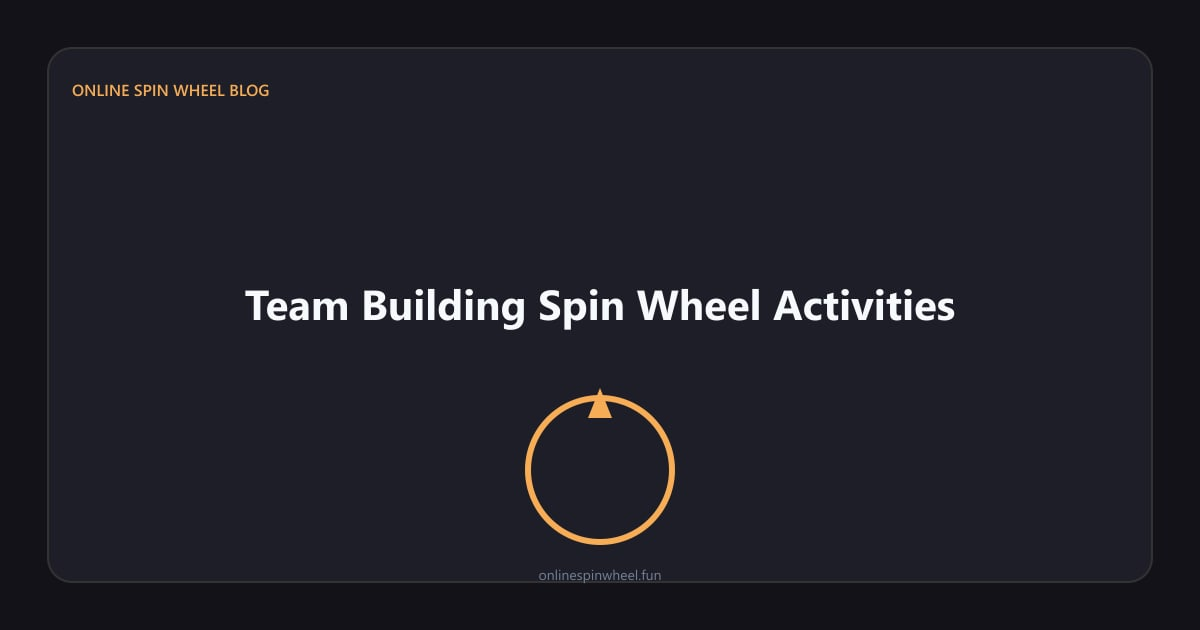
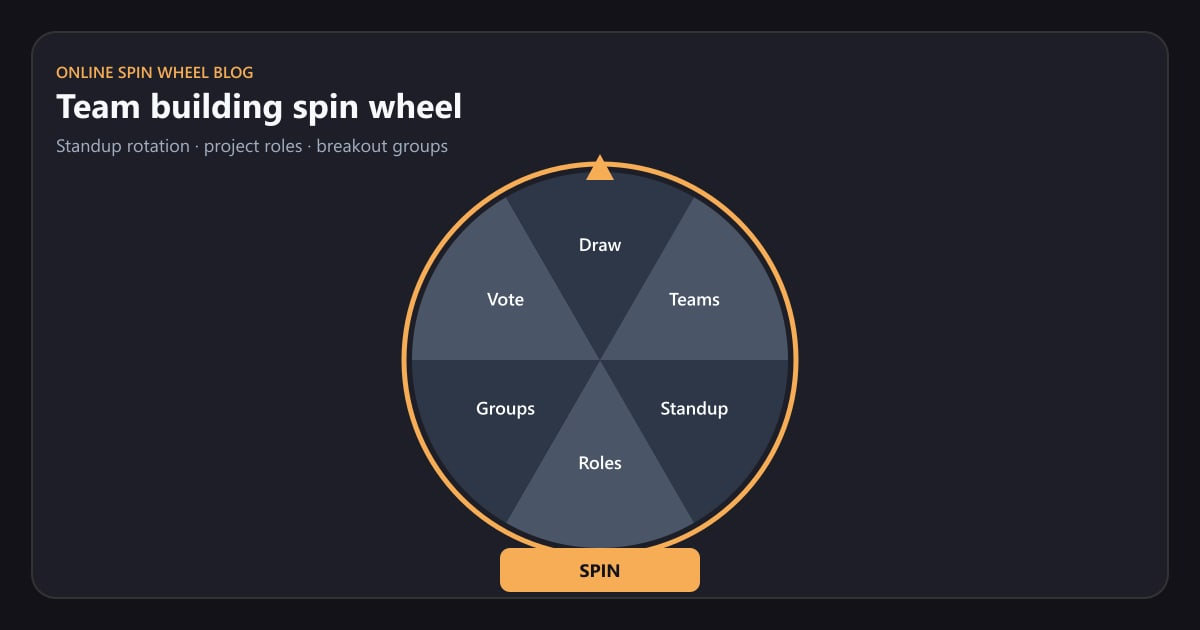
Fix blog featured image dimensions and restore team-building hero.
Standardize manual heroes to 1200x630 cover, regenerate team-building with a wheel-scene graphic, and match the blog hero aspect ratio to OG size.

Changed region(s): [[0.0308, 0.2413, 0.9558, 0.9651], [0.0308, 0.0905, 0.4008, 0.2413], [0.0617, 0.0302, 0.9558, 0.0603]]

diff --git a/src/pages/BlogPost.tsx b/src/pages/BlogPost.tsx
@@ -284,7 +284,7 @@ const BlogPost = () => {
 
         {featuredSrc ? (
           <div className="mb-10 overflow-hidden rounded-xl border border-border/60 bg-muted/20 shadow-sm">
-            <div className="aspect-[16/9] w-full bg-muted/40">
+            <div className="aspect-[40/21] w-full bg-muted/40">
               <OptimizedImage
                 src={featuredSrc}
                 webpSrc={featuredWebp}
